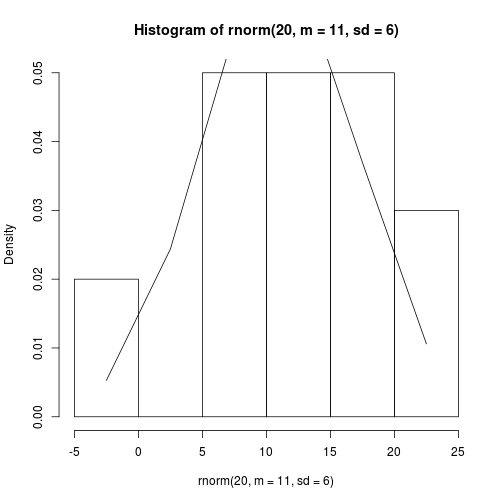
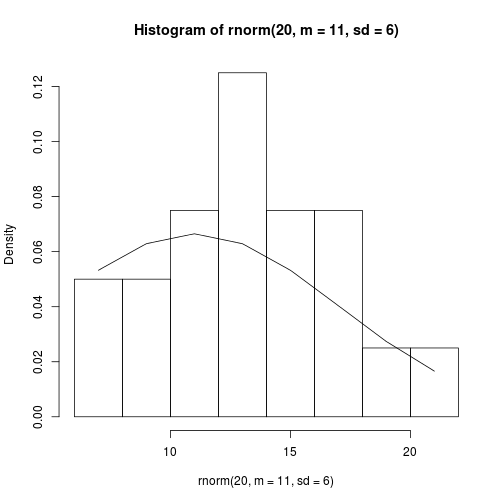
updating readme; attempting mathjax in md

diff --git a/stevens_primer/appendixB.md b/stevens_primer/appendixB.md
@@ -10,6 +10,7 @@ toc: yes
 This section focuses on using R's help functions.
 
 ```r
+set.seed(9123)
 ### When you know a function name ----
 ?mean
 
@@ -168,39 +169,23 @@ Y
 ```
 
 ```r
-sum(Y)
+sum(Y); mean(Y); max(Y); length(Y); summary(Y)
 ```
 
 ```
 ## [1] 105.4
 ```
 
-```r
-mean(Y)
-```
-
 ```
 ## [1] 10.54
-```
-
-```r
-max(Y)
 ```
 
 ```
 ## [1] 11.4
 ```
 
-```r
-length(Y)
-```
-
 ```
 ## [1] 10
-```
-
-```r
-summary(Y)
 ```
 
 ```
@@ -511,7 +496,7 @@ M [1, 2] # First row; second col
 ```
 
 ```r
-M [1, ]; M[1, 1:2] # Both are equivalent
+M [1, ]; M[1, 1:2] # Both are equivalent because there's just two columns anyway
 ```
 
 ```
@@ -524,6 +509,15 @@ M [1, ]; M[1, 1:2] # Both are equivalent
 
 
 *Skipping "Simple Matrix Algebra" for now.*
+
+### Appendix B3.4
+Matrix algebra
+
+Recall the difference between scalar and matrix operations...
+
+Given two matrices *A* and *B*:
+
+$\begin{matrix}a & b\\c & d\end{matrix}$
 
 ------------------------------------
 **The rest of this is not part of the assignment, just did it to work through the latter sections like ODEs and Optimizations**
@@ -951,16 +945,16 @@ myplot
 
 ```
 ## $breaks
-## [1] -5  0  5 10 15 20 25
+## [1]  6  8 10 12 14 16 18 20 22
 ## 
 ## $counts
-## [1] 2 0 5 5 5 3
+## [1] 2 2 3 5 3 3 1 1
 ## 
 ## $density
-## [1] 0.02 0.00 0.05 0.05 0.05 0.03
+## [1] 0.050 0.050 0.075 0.125 0.075 0.075 0.025 0.025
 ## 
 ## $mids
-## [1] -2.5  2.5  7.5 12.5 17.5 22.5
+## [1]  7  9 11 13 15 17 19 21
 ## 
 ## $xname
 ## [1] "rnorm(20, m = 11, sd = 6)"

diff --git a/README.md b/README.md
@@ -1,1 +1,1 @@
-Repository for EEB Quantitative Bootcamp, EEB 201
+Repository for EEB Quantitative Bootcamp, EEB 201. Click on `appendixB.md` for rendered file; source file is located within the `rmd_files` folder.
